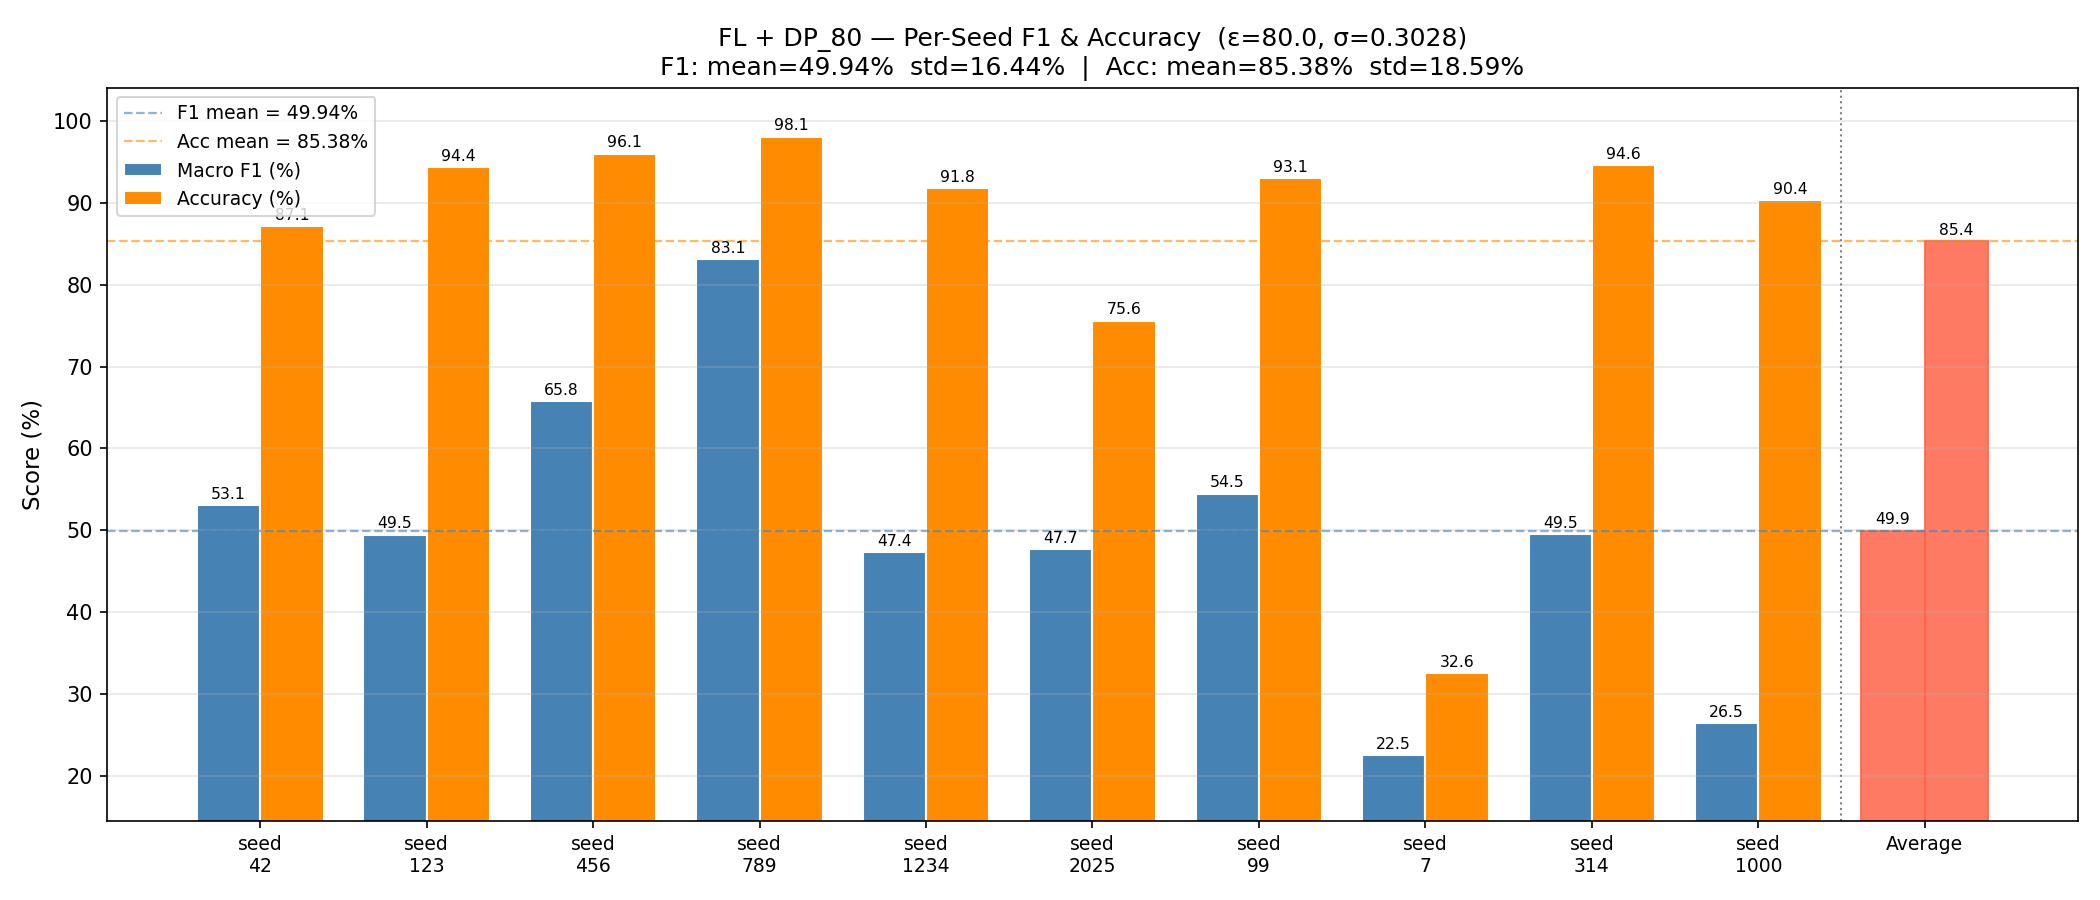
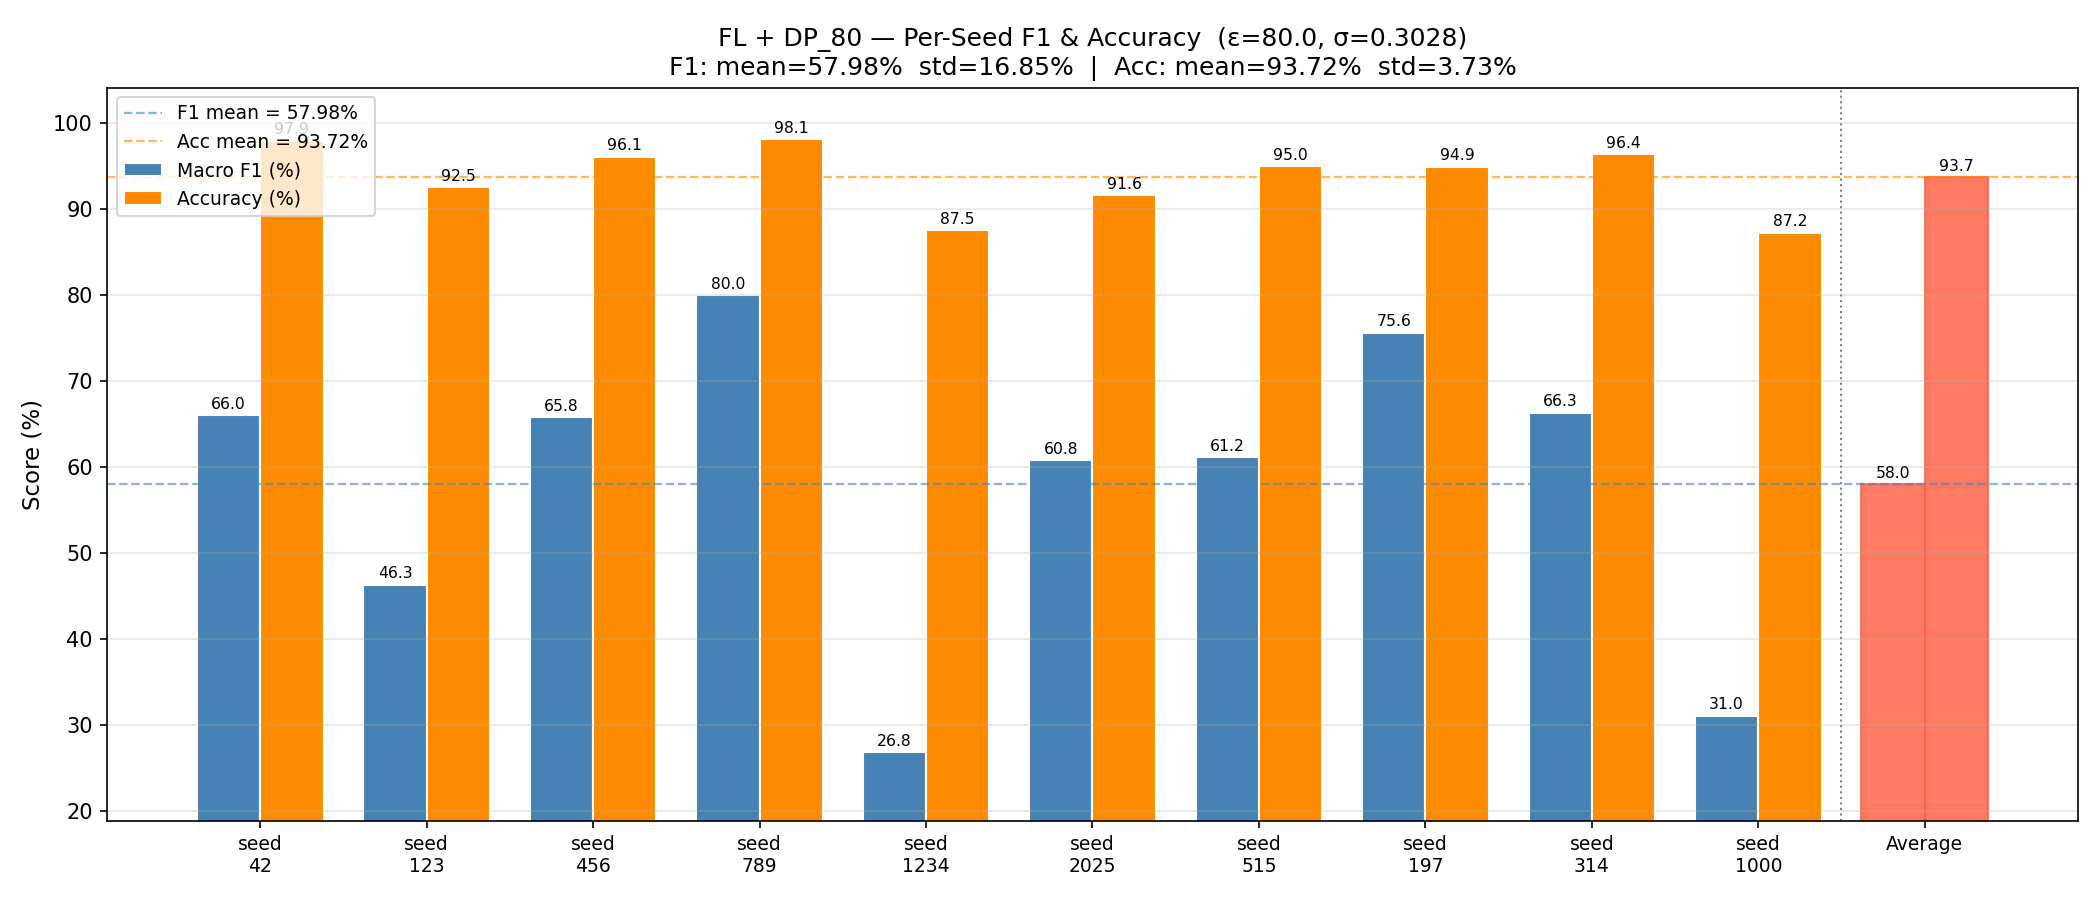
""

diff --git a/IoV-secureFL-Pipeline_awsEC2/utils/prepare_job_config.py b/IoV-secureFL-Pipeline_awsEC2/utils/prepare_job_config.py
@@ -13,11 +13,11 @@ def job_config_args_parser():
     parser.add_argument("--data_split_root", type=str, required=True, help="Path to stratified data splits")
     parser.add_argument("--site_num", type=int, default=5, help="Total number of vehicles")
     parser.add_argument("--site_name_prefix", type=str, default="site-", help="Site name prefix")
-    parser.add_argument("--num_local_parallel_tree", type=int, default=20, help="Trees per stage per site")
-    parser.add_argument("--max_depth", type=int, default=8, help="Maximum depth of a tree")
-    parser.add_argument("--local_subsample", type=float, default=0.8, help="Row subsample rate per tree (RF bagging)")
-    parser.add_argument("--colsample_bynode", type=float, default=0.7, help="Feature subsample rate per split (RF feature randomness)")
-    parser.add_argument("--nthread", type=int, default=4, help="nthread for xgboost")
+    #parser.add_argument("--num_local_parallel_tree", type=int, default=20, help="Trees per stage per site")
+    #parser.add_argument("--max_depth", type=int, default=8, help="Maximum depth of a tree")
+    #parser.add_argument("--local_subsample", type=float, default=0.8, help="Row subsample rate per tree (RF bagging)")
+    #parser.add_argument("--colsample_bynode", type=float, default=0.7, help="Feature subsample rate per split (RF feature randomness)")
+    #parser.add_argument("--nthread", type=int, default=4, help="nthread for xgboost")
     parser.add_argument("--dp_epsilon", type=float, default=None, help="DP privacy budget ε (None = no DP)")
     parser.add_argument("--dp_delta", type=float, default=1e-5, help="DP failure probability δ")
     parser.add_argument("--dp_clip_bound", type=float, default=5.0, help="Leaf value clipping bound C (L∞ sensitivity)")
@@ -49,11 +49,11 @@ def _update_server_config(config: dict, args):
 
 def _update_client_config(config: dict, args, site_name: str):
     exec_args = config["executors"][0]["executor"]["args"]
-    exec_args["num_local_parallel_tree"] = args.num_local_parallel_tree
-    exec_args["max_depth"] = args.max_depth
-    exec_args["local_subsample"] = args.local_subsample
-    exec_args["colsample_bynode"] = args.colsample_bynode
-    exec_args["nthread"] = args.nthread
+    #exec_args["num_local_parallel_tree"] = args.num_local_parallel_tree
+    #exec_args["max_depth"] = args.max_depth
+    #exec_args["local_subsample"] = args.local_subsample
+    #exec_args["colsample_bynode"] = args.colsample_bynode
+    #exec_args["nthread"] = args.nthread
     exec_args["dp_epsilon"] = args.dp_epsilon
     exec_args["dp_delta"] = args.dp_delta
     exec_args["dp_clip_bound"] = args.dp_clip_bound

diff --git a/utils/prepare_job_config.py b/utils/prepare_job_config.py
@@ -13,11 +13,11 @@ def job_config_args_parser():
     parser.add_argument("--data_split_root", type=str, required=True, help="Path to stratified data splits")
     parser.add_argument("--site_num", type=int, default=5, help="Total number of vehicles")
     parser.add_argument("--site_name_prefix", type=str, default="site-", help="Site name prefix")
-    parser.add_argument("--num_local_parallel_tree", type=int, default=20, help="Trees per stage per site")
-    parser.add_argument("--max_depth", type=int, default=8, help="Maximum depth of a tree")
-    parser.add_argument("--local_subsample", type=float, default=0.8, help="Row subsample rate per tree (RF bagging)")
-    parser.add_argument("--colsample_bynode", type=float, default=0.7, help="Feature subsample rate per split (RF feature randomness)")
-    parser.add_argument("--nthread", type=int, default=4, help="nthread for xgboost")
+    #parser.add_argument("--num_local_parallel_tree", type=int, default=20, help="Trees per stage per site")
+    #parser.add_argument("--max_depth", type=int, default=8, help="Maximum depth of a tree")
+    #parser.add_argument("--local_subsample", type=float, default=0.8, help="Row subsample rate per tree (RF bagging)")
+    #parser.add_argument("--colsample_bynode", type=float, default=0.7, help="Feature subsample rate per split (RF feature randomness)")
+    #parser.add_argument("--nthread", type=int, default=4, help="nthread for xgboost")
     parser.add_argument("--dp_epsilon", type=float, default=None, help="DP privacy budget ε (None = no DP)")
     parser.add_argument("--dp_delta", type=float, default=1e-5, help="DP failure probability δ")
     parser.add_argument("--dp_clip_bound", type=float, default=5.0, help="Leaf value clipping bound C (L∞ sensitivity)")
@@ -49,11 +49,11 @@ def _update_server_config(config: dict, args):
 
 def _update_client_config(config: dict, args, site_name: str):
     exec_args = config["executors"][0]["executor"]["args"]
-    exec_args["num_local_parallel_tree"] = args.num_local_parallel_tree
-    exec_args["max_depth"] = args.max_depth
-    exec_args["local_subsample"] = args.local_subsample
-    exec_args["colsample_bynode"] = args.colsample_bynode
-    exec_args["nthread"] = args.nthread
+    #exec_args["num_local_parallel_tree"] = args.num_local_parallel_tree
+    #exec_args["max_depth"] = args.max_depth
+    #exec_args["local_subsample"] = args.local_subsample
+    #exec_args["colsample_bynode"] = args.colsample_bynode
+    #exec_args["nthread"] = args.nthread
     exec_args["dp_epsilon"] = args.dp_epsilon
     exec_args["dp_delta"] = args.dp_delta
     exec_args["dp_clip_bound"] = args.dp_clip_bound

diff --git a/jobs/random_forest_base/app/custom/iov_executor.py b/jobs/random_forest_base/app/custom/iov_executor.py
@@ -128,10 +128,10 @@ class DoubleRFExecutor(Executor):
                     "objective": "binary:logistic",
                     "tree_method": self.xgb_params.get("tree_method", "hist"),
                     # XGBoost RF mode: one bagging round of num_parallel_tree trees
-                    "num_parallel_tree": self.xgb_params.get("num_local_parallel_tree", 50),
-                    "max_depth": self.xgb_params.get("max_depth", 15),
-                    "subsample": self.xgb_params.get("local_subsample", 0.8),
-                    "colsample_bynode": self.xgb_params.get("colsample_bynode", 0.7),
+                    "num_parallel_tree": self.xgb_params.get("num_local_parallel_tree", 20), #20
+                    "max_depth": self.xgb_params.get("max_depth", 20), # 10
+                    "subsample": self.xgb_params.get("local_subsample", 1), # 1
+                    "colsample_bynode": self.xgb_params.get("colsample_bynode", 0.8), # 0.8
                     "learning_rate": 1.0,  # no shrinkage — RF does not shrink trees
                     "nthread": self.xgb_params.get("nthread", 4),
                     "seed": self.seed,
@@ -169,10 +169,10 @@ class DoubleRFExecutor(Executor):
                     "num_class": 6,
                     "tree_method": self.xgb_params.get("tree_method", "hist"),
                     # XGBoost RF mode: one bagging round of num_parallel_tree trees
-                    "num_parallel_tree": self.xgb_params.get("num_local_parallel_tree", 50),
-                    "max_depth": self.xgb_params.get("max_depth", 15),
-                    "subsample": self.xgb_params.get("local_subsample", 0.8),
-                    "colsample_bynode": self.xgb_params.get("colsample_bynode", 0.7),
+                    "num_parallel_tree": self.xgb_params.get("num_local_parallel_tree", 30), #30
+                    "max_depth": self.xgb_params.get("max_depth", 15), #10
+                    "subsample": self.xgb_params.get("local_subsample", 0.8), #0.8
+                    "colsample_bynode": self.xgb_params.get("colsample_bynode", 0.8), #0.8
                     "learning_rate": 1.0,  # no shrinkage — RF does not shrink trees
                     "nthread": self.xgb_params.get("nthread", 4),
                     "seed": self.seed,

diff --git a/IoV-secureFL-Pipeline_awsEC2/jobs/random_forest_base/app/custom/iov_executor.py b/IoV-secureFL-Pipeline_awsEC2/jobs/random_forest_base/app/custom/iov_executor.py
@@ -128,10 +128,10 @@ class DoubleRFExecutor(Executor):
                     "objective": "binary:logistic",
                     "tree_method": self.xgb_params.get("tree_method", "hist"),
                     # XGBoost RF mode: one bagging round of num_parallel_tree trees
-                    "num_parallel_tree": self.xgb_params.get("num_local_parallel_tree", 50),
-                    "max_depth": self.xgb_params.get("max_depth", 15),
-                    "subsample": self.xgb_params.get("local_subsample", 0.8),
-                    "colsample_bynode": self.xgb_params.get("colsample_bynode", 0.7),
+                    "num_parallel_tree": self.xgb_params.get("num_local_parallel_tree", 20),
+                    "max_depth": self.xgb_params.get("max_depth", 20),
+                    "subsample": self.xgb_params.get("local_subsample", 1),
+                    "colsample_bynode": self.xgb_params.get("colsample_bynode", 0.8),
                     "learning_rate": 1.0,  # no shrinkage — RF does not shrink trees
                     "nthread": self.xgb_params.get("nthread", 4),
                     "seed": self.seed,
@@ -171,10 +171,10 @@ class DoubleRFExecutor(Executor):
                     "num_class": 6,
                     "tree_method": self.xgb_params.get("tree_method", "hist"),
                     # XGBoost RF mode: one bagging round of num_parallel_tree trees
-                    "num_parallel_tree": self.xgb_params.get("num_local_parallel_tree", 50),
+                    "num_parallel_tree": self.xgb_params.get("num_local_parallel_tree", 30),
                     "max_depth": self.xgb_params.get("max_depth", 15),
                     "subsample": self.xgb_params.get("local_subsample", 0.8),
-                    "colsample_bynode": self.xgb_params.get("colsample_bynode", 0.7),
+                    "colsample_bynode": self.xgb_params.get("colsample_bynode", 0.8),
                     "learning_rate": 1.0,
                     "nthread": self.xgb_params.get("nthread", 4),
                     "seed": self.seed,

diff --git a/utils/plot_seeds_compare.py b/utils/plot_seeds_compare.py
@@ -16,7 +16,7 @@ OUTPNG = HERE / "../DP_SEED_report/seeds_comparing.png"
 df = pd.read_csv(CSV)
 row = df.iloc[0]
 
-SEEDS = [42, 123, 456, 789, 1234, 2025, 99, 7, 314, 1000]
+SEEDS = [42, 123, 456, 789, 1234, 2025, 515, 197, 314, 1000]
 f1s   = [row[f"f1_seed_{s}"]  for s in SEEDS]
 accs  = [row[f"acc_seed_{s}"] for s in SEEDS]
 
